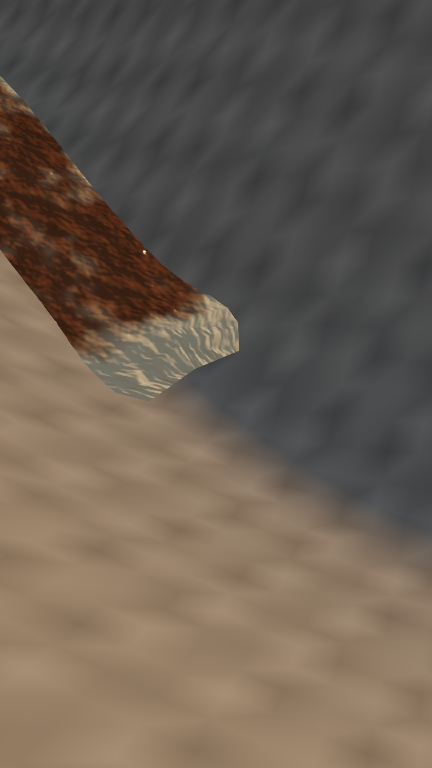
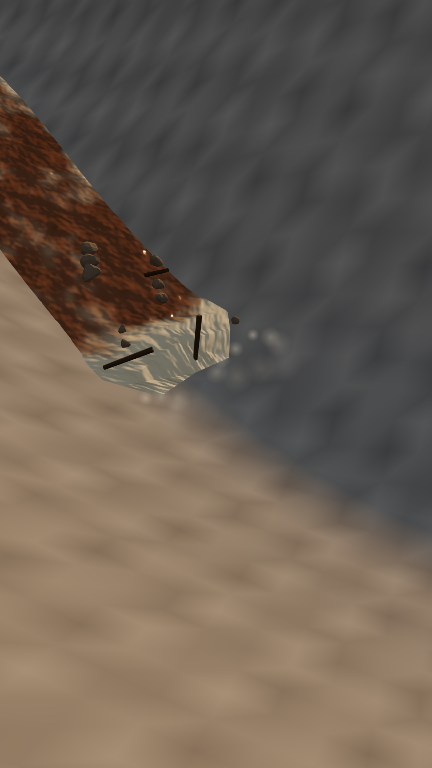
Water kit round 2: flood nose/debris/spray, underwater colour-space fixes; Matthew's round-1 ratings recorded as defaults
Claude-Session: https://claude.ai/code/session_01WProZXeg9hV8avik7CTNzE

diff --git a/lab/water/picker.html b/lab/water/picker.html
@@ -39,7 +39,7 @@ button:focus-visible, textarea:focus-visible, video:focus-visible { outline: 2px
 
 <div class="wrap">
   <header style="display:grid;gap:10px">
-    <div class="eyebrow">Studio skills · water kit · bench round 1</div>
+    <div class="eyebrow">Studio skills · water kit · bench round 1 · 3 shots updated (round 2)</div>
     <h1>Water Picker</h1>
     <p class="lede">Nine fixed test shots of the reusable water kit, one per kind of water. These are tests of the water, not scenes from a film: the hills and rocks are placeholders. Each clip loops 3 seconds. Rate how believable the water is and say what's off; your notes decide what the kit changes next, and the shots you like become its defaults.</p>
     <div class="status" id="status">Loading your ratings…</div>
@@ -53,7 +53,7 @@ button:focus-visible, textarea:focus-visible, video:focus-visible { outline: 2px
 </div>
 
 <script>
-const SHOTS = [{"id": "river-aerial", "title": "River from the air", "what": "Clear green river (preset clearGreen) from 60 m up: flowing ripples, depth colour across the channel, bank foam.", "clip": "clips/river-aerial.mp4", "cost": "Render cost: 0.50 s per frame on CPU (full 1080\u00d71920)"}, {"id": "river-bank", "title": "River at the bank", "what": "The same river from 1.6 m above the water: current faster mid-channel, sky reflection, rocks at the edge.", "clip": "clips/river-bank.mp4", "cost": "Render cost: 0.81 s per frame on CPU (full 1080\u00d71920)"}, {"id": "rapids", "title": "Rapids", "what": "A steep reach: standing waves in a V that stay put while foam flows through them; the surface lifts at the crests.", "clip": "clips/rapids.mp4", "cost": "Render cost: 0.88 s per frame on CPU (full 1080\u00d71920)"}, {"id": "under-clear", "title": "Under clear water", "what": "Clear river from 0.5 m above the bed: light patterns (caustics), light shafts, silt drifting, the surface seen from below.", "clip": "clips/under-clear.mp4", "cost": "Render cost: 0.16 s per frame on CPU (full 1080\u00d71920)"}, {"id": "under-flood", "title": "Under a muddy flood", "what": "Flood water (preset muddyFlood), visibility cheated to ~2 m; pebbles hop along the bed; no caustics.", "clip": "clips/under-flood.mp4", "cost": "Render cost: 0.11 s per frame on CPU (full 1080\u00d71920)"}, {"id": "flood-front", "title": "Flood front in a dry gully", "what": "A muddy front pushing down a channel: deepening behind a foaming snout, wet sheen.", "clip": "clips/flood-front.mp4", "cost": "Render cost: 0.27 s per frame on CPU (full 1080\u00d71920)"}, {"id": "ocean-open", "title": "Open ocean", "what": "Deep-blue swell from six summed waves, low sun glint, light through the crests, whitecaps.", "clip": "clips/ocean-open.mp4", "cost": "Render cost: 0.81 s per frame on CPU (full 1080\u00d71920)"}, {"id": "ocean-shore", "title": "Waves on a beach", "what": "Tropical shallows: waves shoal and break into foam lines, swash on the sand, water clear over the bottom.", "clip": "clips/ocean-shore.mp4", "cost": "Render cost: 0.89 s per frame on CPU (full 1080\u00d71920)"}, {"id": "waterfall", "title": "Waterfall", "what": "A 24 m fall: streaks at the real fall speed, whitening as it aerates, a churning plunge pool, mist.", "clip": "clips/waterfall.mp4", "cost": "Render cost: 1.03 s per frame on CPU (full 1080\u00d71920)"}];
+const SHOTS = [{"id": "river-aerial", "title": "River from the air", "what": "Clear green river (preset clearGreen) from 60 m up: flowing ripples, depth colour across the channel, bank foam.", "clip": "clips/river-aerial.mp4", "cost": "Render cost: 0.50 s per frame on CPU (full 1080\u00d71920)"}, {"id": "river-bank", "title": "River at the bank", "what": "The same river from 1.6 m above the water: current faster mid-channel, sky reflection, rocks at the edge.", "clip": "clips/river-bank.mp4", "cost": "Render cost: 0.81 s per frame on CPU (full 1080\u00d71920)"}, {"id": "rapids", "title": "Rapids", "what": "A steep reach: standing waves in a V that stay put while foam flows through them; the surface lifts at the crests.", "clip": "clips/rapids.mp4", "cost": "Render cost: 0.88 s per frame on CPU (full 1080\u00d71920)"}, {"id": "under-clear", "title": "Under clear water", "what": "Round 2: water colour fixed (no band at the horizon). Clear river from 0.5 m above the bed: light patterns (caustics), light shafts, silt drifting, the surface seen from below.", "clip": "clips/under-clear.mp4", "cost": "Render cost: 0.16 s per frame on CPU (full 1080\u00d71920)"}, {"id": "under-flood", "title": "Under a muddy flood", "what": "Round 2: murk colour fixed (no band at the horizon). Flood water (preset muddyFlood), visibility cheated to ~2 m; pebbles hop along the bed; no caustics.", "clip": "clips/under-flood.mp4", "cost": "Render cost: 0.11 s per frame on CPU (full 1080\u00d71920)"}, {"id": "flood-front", "title": "Flood front in a dry gully", "what": "Round 2: rounded nose, tumbling rocks and branches, spray off the snout. A muddy front pushing down a channel: deepening behind a foaming snout, wet sheen.", "clip": "clips/flood-front.mp4", "cost": "Render cost: 0.27 s per frame on CPU (full 1080\u00d71920)"}, {"id": "ocean-open", "title": "Open ocean", "what": "Deep-blue swell from six summed waves, low sun glint, light through the crests, whitecaps.", "clip": "clips/ocean-open.mp4", "cost": "Render cost: 0.81 s per frame on CPU (full 1080\u00d71920)"}, {"id": "ocean-shore", "title": "Waves on a beach", "what": "Tropical shallows: waves shoal and break into foam lines, swash on the sand, water clear over the bottom.", "clip": "clips/ocean-shore.mp4", "cost": "Render cost: 0.89 s per frame on CPU (full 1080\u00d71920)"}, {"id": "waterfall", "title": "Waterfall", "what": "A 24 m fall: streaks at the real fall speed, whitening as it aerates, a churning plunge pool, mist.", "clip": "clips/waterfall.mp4", "cost": "Render cost: 1.03 s per frame on CPU (full 1080\u00d71920)"}];
 const $ = (s, el = document) => el.querySelector(s);
 const ratings = {};
 let db = null;

diff --git a/.claude/skills/animated-video/templates/parts/src/kit/water/components.tsx b/.claude/skills/animated-video/templates/parts/src/kit/water/components.tsx
@@ -9,6 +9,14 @@ import {waterfallGeometry, waterfallMaterial} from './waterfall';
 import {floodGeometry, floodMaterial} from './flood';
 import {siltPoints, siltMaterial, shaftMaterial, surfaceFromBelowMaterial} from './underwater';
 
+// a point and direction at distance s along a path
+const along = (path: THREE.Vector3[], s: number) => {
+  let run = 0;
+  for (let i = 1; i < path.length; i++) { const d = path[i].distanceTo(path[i - 1]);
+    if (run + d >= s) { const k = (s - run) / d; return {p: path[i - 1].clone().lerp(path[i], k), dir: path[i].clone().sub(path[i - 1]).normalize()}; } run += d; }
+  return {p: path[path.length - 1].clone(), dir: path[path.length - 1].clone().sub(path[path.length - 2]).normalize()};
+};
+
 const useT = (t: number) => useMemo(() => ({value: 0}), []);
 let puff: THREE.Texture | null = null;
 export const puffTexture = () => {
@@ -89,5 +97,30 @@ export const FloodFront: React.FC<{path: THREE.Vector3[]; width: number; front: 
   const uFront = useMemo(() => ({value: 0}), []); uFront.value = front;
   const geo = floodGeometry(path, width, front, height);
   const mat = useMemo(() => floodMaterial(preset, uTime, uFront, width), [preset, width]);
-  return <mesh geometry={geo} material={mat} />;
+  const rocks = useMemo(() => Array.from({length: 4}, (_, i) => {
+    const g = new THREE.IcosahedronGeometry(1, 1), p = g.attributes.position as THREE.BufferAttribute, v = new THREE.Vector3();
+    for (let k = 0; k < p.count; k++) { v.fromBufferAttribute(p, k); v.multiplyScalar(0.75 + 0.25 * Math.sin(v.x * 3 + i) * Math.cos(v.z * 2 - i)); v.y *= 0.7; p.setXYZ(k, v.x, v.y, v.z); }
+    g.computeVertexNormals(); return g; }), []);
+  return (
+    <group>
+      <mesh geometry={geo} material={mat} />
+      {/* debris carried just behind the snout: rocks and branches tumbling, half sunk in the mud */}
+      {Array.from({length: 12}, (_, i) => {
+        const back = 1.5 + ((i * 37) % 11) / 11 * 9, lane = (((i * 17) % 13) / 13 - 0.5) * width * 0.6;
+        if (front - back < 0) return null;
+        const {p, dir} = along(path, front - back), side = new THREE.Vector3(-dir.z, 0, dir.x);
+        const pos = p.clone().addScaledVector(side, lane).add(new THREE.Vector3(0, height * 0.75, 0));
+        const stick = i % 4 === 3, s = stick ? 0.12 : 0.25 + (i % 3) * 0.15;
+        return stick
+          ? <mesh key={i} position={pos} rotation={[t * 1.5 + i, i, t * 0.7]}><cylinderGeometry args={[s, s * 0.8, 2.2, 6]} /><meshStandardMaterial color="#5A4630" roughness={0.9} /></mesh>
+          : <mesh key={i} geometry={rocks[i % 4]} position={pos} scale={s} rotation={[t * 3 + i, i * 2, 0]}><meshStandardMaterial color="#7E6A58" roughness={0.85} /></mesh>;
+      })}
+      {/* spray and spatter thrown forward off the snout */}
+      {front > 2 && Array.from({length: 16}, (_, i) => {
+        const ph = (t * 1.6 + i / 16) % 1, {p, dir} = along(path, front - 0.5), side = new THREE.Vector3(-dir.z, 0, dir.x);
+        const pos = p.clone().addScaledVector(dir, ph * 2.5).addScaledVector(side, Math.sin(i * 2.4) * width * 0.35).add(new THREE.Vector3(0, height * 0.6 + ph * 1.6 - ph * ph * 2.2, 0));
+        return <sprite key={'s' + i} position={pos} scale={0.5 + ph * 1.2}><spriteMaterial map={puffTexture()} color={preset.foam} transparent opacity={0.5 * (1 - ph)} depthWrite={false} /></sprite>;
+      })}
+    </group>
+  );
 };

diff --git a/.claude/skills/animated-video/templates/parts/src/kit/water/underwater.ts b/.claude/skills/animated-video/templates/parts/src/kit/water/underwater.ts
@@ -33,7 +33,7 @@ export const withUnderwater = <M extends THREE.MeshStandardMaterial>(m: M, U: Un
         }`)
       .replace('#include <fog_fragment>', /* glsl */`#include <fog_fragment>
         if (uUnder > 0.5) { float d = length(vUW - cameraPosition) * uVisScale; vec3 tr = exp(-uExt * d);
-          gl_FragColor.rgb = gl_FragColor.rgb * tr + uHaze * (1.0 - tr); }`);
+          gl_FragColor.rgb = gl_FragColor.rgb * tr + sRGBTransferOETF(vec4(uHaze, 1.0)).rgb * (1.0 - tr); }`);
   };
   m.customProgramCacheKey = () => 'water-under-' + key;
   return m;
@@ -60,7 +60,10 @@ export const siltMaterial = (preset: WaterPreset, uTime: THREE.IUniform) => new 
       gl_PointSize = clamp(uSize * (0.5 + seed) * 1400.0 / -mv.z, 1.0, 9.0); vA = smoothstep(uBox * 0.5, uBox * 0.15, length(p - uCenter)); }`,
   fragmentShader: /* glsl */`uniform vec3 uFoamCol, uHaze; varying float vA;
     void main(){ vec2 c = gl_PointCoord - 0.5; float r = length(c); if (r > 0.5) discard;
-      gl_FragColor = vec4(mix(uHaze, uFoamCol, 0.6), vA * smoothstep(0.5, 0.1, r) * 0.55); }`,
+      gl_FragColor = vec4(mix(uHaze, uFoamCol, 0.6), vA * smoothstep(0.5, 0.1, r) * 0.55);
+      #include <tonemapping_fragment>
+      #include <colorspace_fragment>
+    }`,
 });
 
 // light shafts: a fan of additive vertical quads from the surface, noise-masked and scrolling
@@ -71,7 +74,10 @@ export const shaftMaterial = (preset: WaterPreset, uTime: THREE.IUniform) => new
   fragmentShader: /* glsl */`uniform float uTime, uStrength, uCaustics; uniform vec3 uFoamCol, uHaze; varying vec2 vUv; ${NOISE}
     void main(){ float n = wfbm(vec2(vUv.x * 7.0 + uTime * 0.15, vUv.y * 0.6));
       float a = pow(n, 2.2) * smoothstep(0.0, 0.25, vUv.y) * smoothstep(0.0, 0.2, vUv.x) * smoothstep(1.0, 0.8, vUv.x) * vUv.y;
-      gl_FragColor = vec4(mix(uHaze, uFoamCol, 0.5) * a * uStrength * (0.3 + 0.7 * uCaustics), 1.0); }`,
+      gl_FragColor = vec4(mix(uHaze, uFoamCol, 0.5) * a * uStrength * (0.3 + 0.7 * uCaustics), 1.0);
+      #include <tonemapping_fragment>
+      #include <colorspace_fragment>
+    }`,
 });
 
 // the surface from below: Snell's window (sky within 48.6 deg of straight up), total internal reflection outside
@@ -86,5 +92,8 @@ export const surfaceFromBelowMaterial = (preset: WaterPreset, uTime: THREE.IUnif
       float win = smoothstep(0.62, 0.70, up);                            // cos(48.6 deg) = 0.66
       vec3 c = mix(uHaze * 0.6, uSky * 1.3, win);
       float d = length(vW - cameraPosition); vec3 tr = exp(-uExt * d);
-      gl_FragColor = vec4(c * tr + uHaze * (1.0 - tr), 1.0); }`,
+      gl_FragColor = vec4(c * tr + uHaze * (1.0 - tr), 1.0);
+      #include <tonemapping_fragment>
+      #include <colorspace_fragment>
+    }`,
 });

diff --git a/.claude/skills/animated-video/templates/parts/src/kit/water/flood.ts b/.claude/skills/animated-video/templates/parts/src/kit/water/flood.ts
@@ -13,8 +13,10 @@ export const floodGeometry = (path: THREE.Vector3[], width: number, sF: number, 
     const s = runs[i]; if (s > sF) break;
     const a = path[i], b = path[Math.min(path.length - 1, i + 1)], c = path[Math.max(0, i - 1)];
     const d = b.clone().sub(c).setY(0).normalize(), side = new THREE.Vector3(-d.z, 0, d.x);
-    const behind = sF - s, h = H * (1 - Math.exp(-behind / L)) + H * 0.5 * Math.exp(-((behind - 3) ** 2) / 8);  // snout bulge
-    const w = width * Math.min(1, 0.4 + behind / 6);
+    const behind = sF - s, nose = Math.min(1, behind / 1.5);
+    // depth builds behind the front, with a bulging snout a few metres back; the nose itself tapers to the ground
+    const h = (H * (1 - Math.exp(-behind / L)) + H * 0.6 * Math.exp(-((behind - 2.5) ** 2) / 4)) * nose;
+    const w = width * Math.sqrt(Math.min(1, behind / 5));                 // rounded in plan
     for (const k of [-1, 0, 1]) { const q = a.clone().addScaledVector(side, k * w / 2); p.push(q.x, q.y + h * (k === 0 ? 1 : 0.35), q.z); fl.push(s, (k + 1) / 2); }
     if (n > 0) { const o = (n - 1) * 3; idx.push(o, o + 3, o + 1, o + 1, o + 3, o + 4, o + 1, o + 4, o + 2, o + 2, o + 4, o + 5); }
     n++;

diff --git a/lab/water/README.md b/lab/water/README.md
@@ -15,4 +15,10 @@ Fixes found while building (all in the kit now): fill light and ground too dark 
 rapids a white sheet, then too regular (now a V of uneven standing waves); flood murk opaque (cheated to ~2 m);
 mist as squares (now soft puffs); screen-derivative code in a vertex shader (BUMP split out); flood surface culled from
 above (double-sided); muddy flood invisible on brown dirt (sheen, foam front, contrasting test ground).
-Ratings: pending.
+Ratings (Matthew, no written notes): river-aerial 5, river-bank 5, rapids 5, ocean-open 5, ocean-shore 5,
+waterfall 5, under-clear 4, under-flood 3, flood-front 2.
+
+## Round 2 (2026-11-06)
+flood-front: tapered nose, debris (rocks, branches) tumbling behind the snout, spray (0.29 s/frame). Underwater:
+silt, shafts and the surface-from-below shaders lacked tone mapping / colour-space conversion, and the bed fog mixed
+a linear haze colour after conversion: both showed as a band at the horizon. Fixed (0.12 / 0.18 s/frame).

diff --git a/.claude/skills/animated-video/references/water.md b/.claude/skills/animated-video/references/water.md
@@ -25,3 +25,11 @@ Choose the water before shading it, then build it from the [water kit](../templa
 - Distance: the same surface must hold from metres to kilometres (detail fades with `AA`).
 - Cost: measured on the bench in `lab/water/` (s/frame per piece, CPU); water costs scale with water pixels on screen.
 - With a GPU later: planar reflections, refraction from a depth pass, WebGPU compute waves. Rivers still use flow, not FFT.
+
+## Approved looks (Matthew, Water Picker round 1, 2026-11-06)
+5/5, use as the defaults: river from the air, river at the bank, rapids, open ocean, waves on a beach, waterfall
+(bench settings in `lab/water/src/Bench.tsx`). 4/5: under clear water. 3/5: under a muddy flood. 2/5: flood front.
+Round 2 fixes (no written notes; problems found on review): flood front got a tapered nose, tumbling debris and spray;
+underwater shader materials now convert to output colour space (the horizon band). Re-rate before treating these
+three as defaults.
+

diff --git a/profiles/animated-video.md b/profiles/animated-video.md
@@ -27,3 +27,6 @@
 - Glass must never cut into the component behind it.
 - Blender is a tool for its strengths, not a replacement for the Remotion pipeline.
 - Animations are a design philosophy reused as concept, never copy-paste shots.
+- Water (Matthew, Water Picker 2026-11-06): rated rivers, rapids, ocean, beach and waterfall 5/5 as built by the water
+  kit (`references/water.md`); underwater clear 4, muddy 3, flood front 2 (revised, awaiting re-rating).
+
